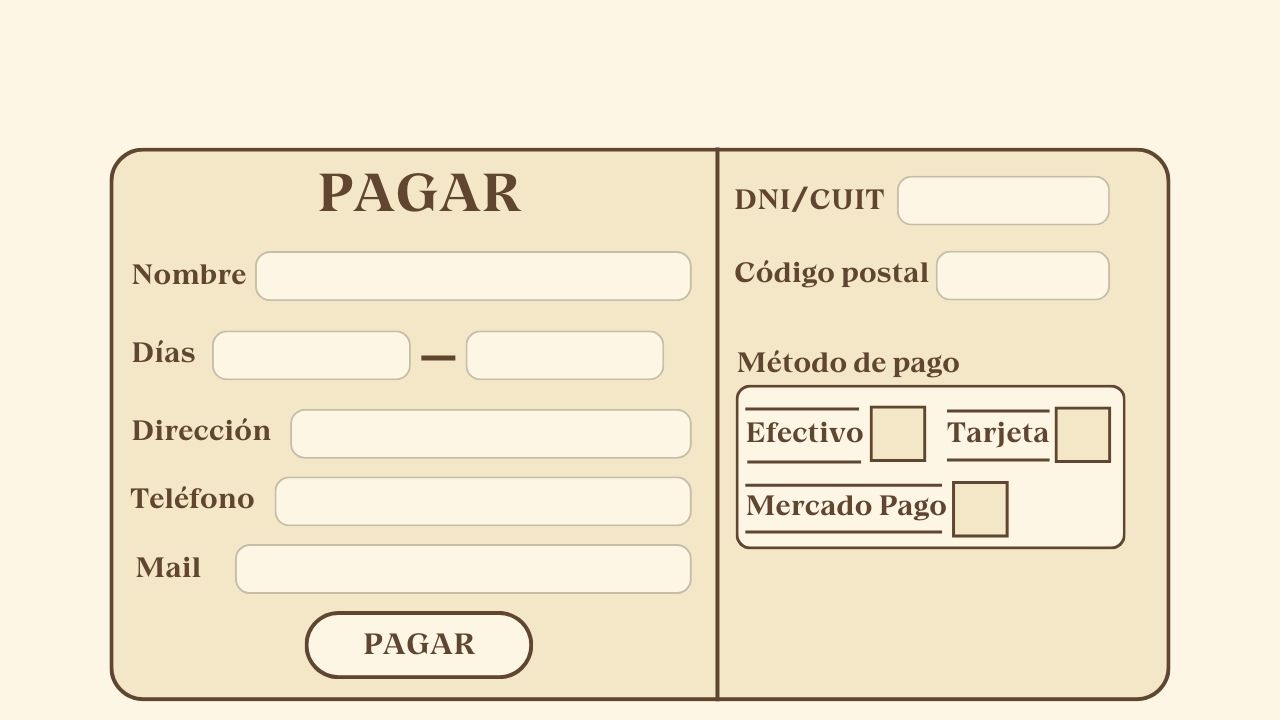
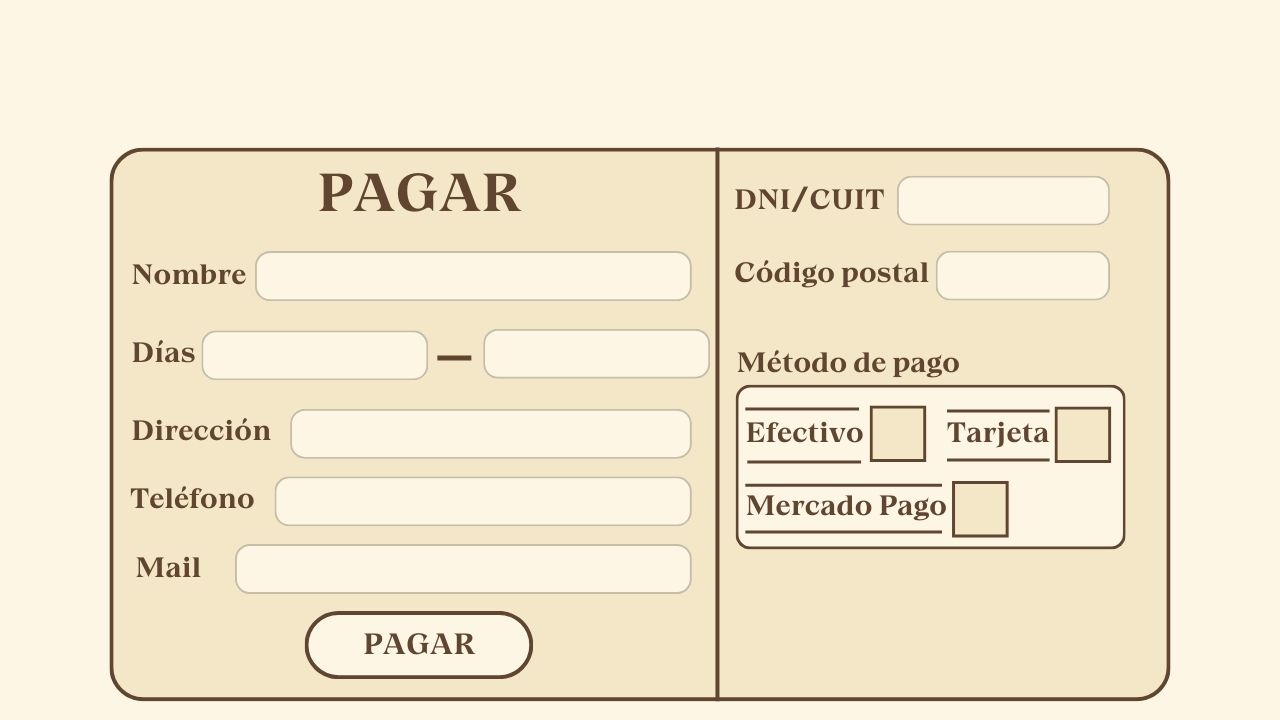
--

Changed region(s): [[0.3125, 0.4583, 0.4062, 0.55], [0.5, 0.4583, 0.5625, 0.55], [0.1562, 0.4583, 0.1875, 0.5194]]

diff --git a/main2.py b/main2.py
@@ -300,7 +300,7 @@ def cursor(mouse_pos):
 
     elif fondo_actual[0] == "reservar habitacion":
 
-        if mouse_pos[0] < 690 and mouse_pos[0] > 400 and mouse_pos[1] < 295 and mouse_pos[1] > 255: #nombre y apellido        
+        if mouse_pos[0] < 690 and mouse_pos[0] > 255 and mouse_pos[1] < 300 and mouse_pos[1] > 250: #nombre       
                         
             pygame.mouse.set_cursor(pygame.SYSTEM_CURSOR_IBEAM) 
         
